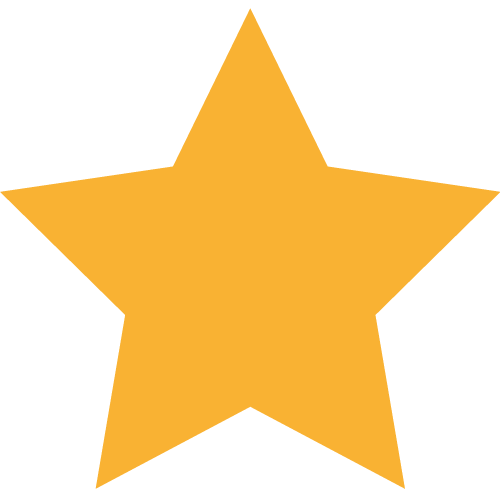
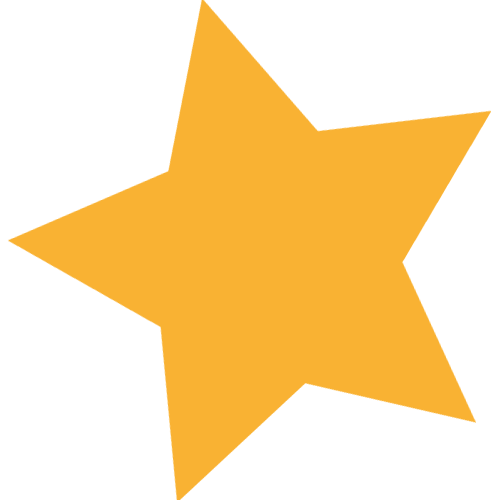
Fixed positioning in star theme

Changed region(s): [[0.18, 0.21, 1.0, 1.0], [0.0, 0.0, 0.6, 0.57], [0.18, 0.57, 0.21, 0.6]]

diff --git a/ScreenSwing/src/se/mah/k3/Themes/StarTheme.java b/ScreenSwing/src/se/mah/k3/Themes/StarTheme.java
@@ -63,12 +63,12 @@ public class StarTheme extends JPanel implements ThemeInterface {
 		 //g.setColor(getBackground()); // x , y , w, h , let stay null
 		super.paintComponent(g);
 		 g.drawImage(Toolkit.getDefaultToolkit().getImage(StarTheme.class.getResource("/images/Star-01.png")), 150, 400, 300, 300, null);
-		 g.drawImage(Toolkit.getDefaultToolkit().getImage(StarTheme.class.getResource("/images/Star-02.png")), 450, 250, 300, 300, null);
-		 g.drawImage(Toolkit.getDefaultToolkit().getImage(StarTheme.class.getResource("/images/Star-03.png")), 645, 375, 300, 300, null);
-		 g.drawImage(Toolkit.getDefaultToolkit().getImage(StarTheme.class.getResource("/images/Star-04.png")), 880, 150, 300, 300, null);
-		 g.drawImage(Toolkit.getDefaultToolkit().getImage(StarTheme.class.getResource("/images/Star-05.png")), 950, 500, 300, 300, null);
-		 g.drawImage(Toolkit.getDefaultToolkit().getImage(StarTheme.class.getResource("/images/Star-06.png")), 1150, 400, 300, 300, null);
-		 g.drawImage(Toolkit.getDefaultToolkit().getImage(StarTheme.class.getResource("/images/Star-07.png")), 1400, 370, 300, 300, null);
+		 g.drawImage(Toolkit.getDefaultToolkit().getImage(StarTheme.class.getResource("/images/Star-02.png")), 430, 250, 300, 300, null);
+		 g.drawImage(Toolkit.getDefaultToolkit().getImage(StarTheme.class.getResource("/images/Star-03.png")), 600, 650, 300, 300, null);
+		 g.drawImage(Toolkit.getDefaultToolkit().getImage(StarTheme.class.getResource("/images/Star-04.png")), 760, 400, 300, 300, null);
+		 g.drawImage(Toolkit.getDefaultToolkit().getImage(StarTheme.class.getResource("/images/Star-05.png")), 990, 600, 300, 300, null);
+		 g.drawImage(Toolkit.getDefaultToolkit().getImage(StarTheme.class.getResource("/images/Star-06.png")), 1120, 200, 300, 300, null);
+		 g.drawImage(Toolkit.getDefaultToolkit().getImage(StarTheme.class.getResource("/images/Star-07.png")), 1400, 500, 300, 300, null);
        //g.fillRect(0, 0, getWidth(), getHeight());
 		this.repaint();
 	}

diff --git a/ScreenSwing/src/se/mah/k3/FullScreen.java b/ScreenSwing/src/se/mah/k3/FullScreen.java
@@ -13,6 +13,7 @@ import javax.swing.border.EmptyBorder;
 
 import se.mah.k3.Themes.CircleTheme;
 import se.mah.k3.Themes.DummyTheme;
+import se.mah.k3.Themes.StarTheme;
 import se.mah.k3.Themes.VerticalBoxes;
 
 import com.firebase.client.Firebase;
@@ -58,7 +59,15 @@ public class FullScreen extends JFrame implements KeyEventDispatcher{
 			panel = new CircleTheme();
 			contentPane.add(panel, BorderLayout.CENTER);
 			contentPane.repaint();
-			contentPane.revalidate(); //This seems to be needed tor really repaint a component with graphical objects strange....
+			contentPane.revalidate(); //This seems to be needed to really repaint a component with graphical objects strange....
+			break;
+		case "Stars":
+			//Empty all old crap
+			contentPane.removeAll();
+			panel = new StarTheme();
+			contentPane.add(panel, BorderLayout.CENTER);
+			contentPane.repaint();
+			contentPane.revalidate(); //This seems to be needed to really repaint a component with graphical objects strange....
 			break;
 		case "VerticalBoxes":
 			//Empty all old crap
@@ -66,7 +75,7 @@ public class FullScreen extends JFrame implements KeyEventDispatcher{
 			panel = new VerticalBoxes();
 			contentPane.add(panel, BorderLayout.CENTER);
 			contentPane.repaint();
-			contentPane.revalidate(); //This seems to be needed tor really repaint a component with graphical objects strange....
+			contentPane.revalidate(); //This seems to be needed to really repaint a component with graphical objects strange....
 			break;
 		default:
 			//Empty all old crap
